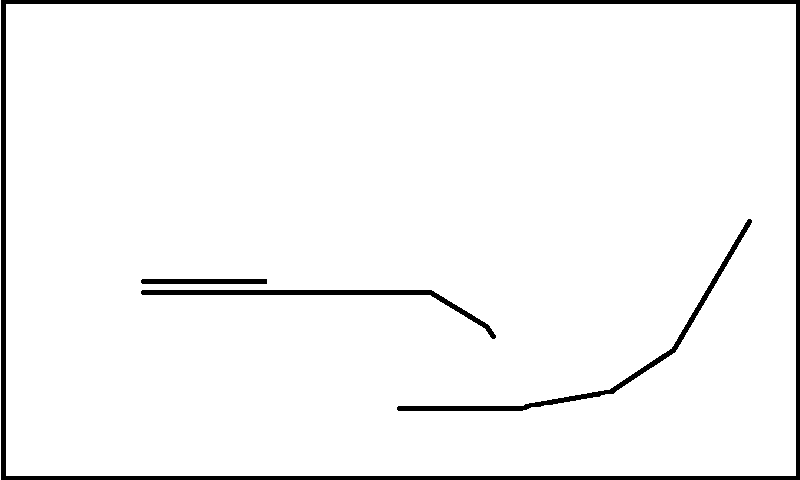
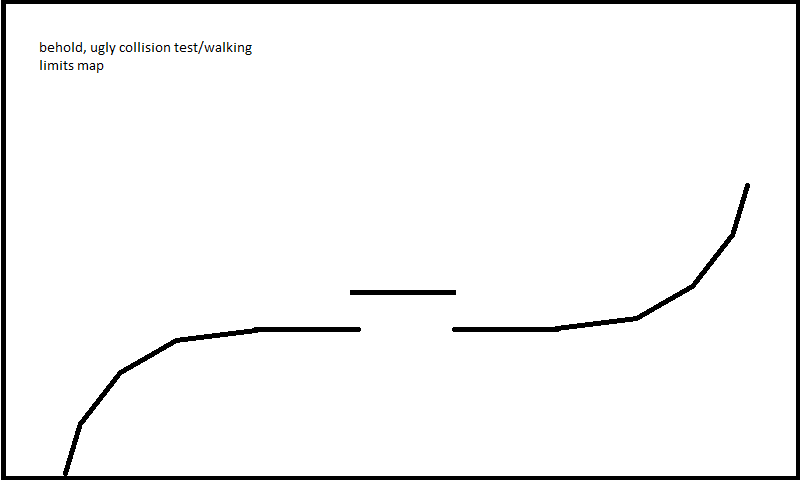
Added Pawn class, refactored players, commented stuff
Added a substantial description comment to game.js, for documentation
and as an idea board.

diff --git a/html/js/game.js b/html/js/game.js
@@ -1,28 +1,37 @@
-// class Game
-
+// WormBound
 //
-// Systems
 /*
-	@TODO document input, tick, rendering system
 
+	This first prototype of our worms clone is hotseat multiplayer (in one browser).
+	Each player, in turn, goes through their squad of pawns, issuing moves and firing.
+	
+	Game.tick is the main game loop. This checks input, updates actors, and renders
+	depending on which phase we're in (should totally have a matinee roll in announcing that)
+
+	Configuration and design notes
+	- global constants (and game tuning values eventually) are in index.html
+	
+	- var Classname   at the top of a file indicates a singleton class, a manager (Game, Map..)
+	- function Classname(param1[, param2]*)   at the top of a file indicates a class (see
+	  http://www.crockford.com/javascript/inheritance.html for the design pattern )
+	  
+	- collision is documented in the map class
 */
 
 
 var Game = new function(){
-	this.canvasBuffer;
-	this.canvasBufferContext;
-	this.players;
-	this.currentPlayerIndex; // whose turn is it?
-	this.keyDown;
-	this.testPlayer;
-	this.consts_movePixelsPerTick;
+	this.currentPlayerIndex = 0;
+	this.players = [];
+	this.keyDown = [];
+	this.buffer = {};
+	this.bufferContext = {};
 	
 	this.init = function(){
 		debug("Initializing Game");
 		
 		// Create buffer (reduce flickering)
-		this.loadCanvasBuffer();
-		if (!this.canvasBufferContext)
+		this.loadbuffer();
+		if (!this.bufferContext)
 			return;
 
 		// Bind the input handlers
@@ -51,7 +60,10 @@ var Game = new function(){
 			x: VIEWPORT_WIDTH / 2.0,
 			y: VIEWPORT_HEIGHT / 2.0
 		}
-		Game.consts_movePixelsPerTick = (function(){ return 1.0; })();
+		for (var i = 0; i < 1; ++i) {
+			Game.players.push( new Pawn( "player_"+i ) );
+			console.log(Game.players[i].getName() + " created");
+;		}
 		
 		// CPU-efficient render loop http://nokarma.org/2011/02/02/javascript-game 
 		// -development-the-game-loop/index.html (must.. wrap.. lines)
@@ -76,12 +88,12 @@ var Game = new function(){
 		onEachFrame(Game.tick);
 	};
 	
-	this.loadCanvasBuffer = function(){
+	this.loadbuffer = function(){
 		if (ctx) {
-			Game.canvasBuffer = document.createElement('canvas');
-			Game.canvasBuffer.width = VIEWPORT_WIDTH;
-			Game.canvasBuffer.height = VIEWPORT_HEIGHT;
-			Game.canvasBufferContext = Game.canvasBuffer.getContext('2d');
+			Game.buffer = document.createElement('canvas');
+			Game.buffer.width = VIEWPORT_WIDTH;
+			Game.buffer.height = VIEWPORT_HEIGHT;
+			Game.bufferContext = Game.buffer.getContext('2d');
 		}
 	};
 	
@@ -139,43 +151,31 @@ var Game = new function(){
 	};
 
 	this.draw = function(){
-		Map.buffer(Game.canvasBufferContext);
+		Map.buffer(Game.bufferContext);
 		
-		for (var i = 0; i < Game.players; ++i) {
-			// players[i].sprite.buffer(this.canvasBufferContext);
-		}
+		for (var i = 0; i < Game.players.length; ++i) {
+			Game.players[i].buffer(Game.bufferContext);
+;		}
 		
 		for (var i = 0; i < Game.projectiles; ++i) {
-			// projectiles[i].buffer(this.canvasBufferContext);
+			// projectiles[i].buffer(this.bufferContext);
 		}
-		
-		// render stand-in player
-		Game.canvasBufferContext.beginPath();
-		var x              = Game.testPlayer.x; //Math.floor();
-		var y              = Game.testPlayer.y; //Math.floor();
-		var radius         = 20;
-		var startAngle     = 0;
-		var endAngle       = 2*Math.PI;
-		var anticlockwise  = false;
-		
-		Game.canvasBufferContext.arc(x,y,radius,startAngle,endAngle, anticlockwise);
-		Game.canvasBufferContext.closePath();
-		Game.canvasBufferContext.stroke();
-		
-		ctx.drawImage(Game.canvasBuffer, 0, 0);
+		ctx.drawImage(Game.buffer, 0, 0);
 	};
 	
 	this.tick = function(){
-		//@TODO: check with the Map to see if we can move there. maybe encapsulate that
-		//       in a player class or something.
+		var deltaX = 0.0, deltaY = 0.0;
 		if (Game.input.left)
-			Game.testPlayer.x -= Game.consts_movePixelsPerTick;
+			deltaX -= 2; //Config.movePixelsPerTick();
 		if (Game.input.right)
-			Game.testPlayer.x += Game.consts_movePixelsPerTick;
+			deltaX += 2; //Config.movePixelsPerTick();
 		if (Game.input.up)
-			Game.testPlayer.y -= Game.consts_movePixelsPerTick;
+			deltaY -= 2; //Config.movePixelsPerTick();
 		if (Game.input.down)
-			Game.testPlayer.y += Game.consts_movePixelsPerTick;
+			deltaY += 2; //Config.movePixelsPerTick();
+			
+		Game.players[Game.currentPlayerIndex].tryMove(deltaX, deltaY);
+		
 
 		// Map.tick; // @TODO: for gravity with collision checks
 		

diff --git a/html/js/map.js b/html/js/map.js
@@ -1,6 +1,6 @@
-// class Map
+
+
 var Map = new function(){
-	var self = this;
 	this.collisionMap = { loaded: false, blackAtXY: function(x,y) {} };
 	
 	this.init = function(){
@@ -16,6 +16,14 @@ var Map = new function(){
 		canvas.width = VIEWPORT_WIDTH;
 		canvas.height = VIEWPORT_HEIGHT;
 		
+		/*
+				Idea for collision: if moving right, for example, scan the
+				rightmost column of the pixels of the movers "collisioncapsule"
+				image. if the pixel is black, check the pixel to its right. if
+				that pixel is also black, then we have a collision, and the move
+				should be interrupted.
+		*/
+		
 		// Load the example map (hardcoded for now)
 		var img = new Image();
 		img.onload = function(){
@@ -23,37 +31,36 @@ var Map = new function(){
 			if (loadContext)
 			{
 				loadContext.drawImage(img,0,0);
-				self.collisionMap.imageData = loadContext.getImageData(0, 0, canvas.width, canvas.height);
-				self.collisionMap.blackAtXY = function(x,y) {
+				Map.collisionMap.imageData = loadContext.getImageData(0, 0, canvas.width, canvas.height);
+				Map.collisionMap.blackAtXY = function(x,y) {
 					// #rob i'd rather find somewhere better/elsewhere to define this, but w.e. refactor later
 					// Check R
-					if ( self.collisionMap.imageData.data[((y*(imageData.width*4)) + (x*4)) + 0] > 0)
+					if ( Map.collisionMap.imageData.data[((y*(imageData.width*4)) + (x*4)) + 0] > 0.0)
 						return false;
 					
 					// Check G
-					if ( self.collisionMap.imageData.data[((y*(imageData.width*4)) + (x*4)) + 1] > 0)
+					if ( Map.collisionMap.imageData.data[((y*(imageData.width*4)) + (x*4)) + 1] > 0.0)
 						return false;
 					
 					// Check B
-					if ( self.collisionMap.imageData.data[((y*(imageData.width*4)) + (x*4)) + 2] > 0)
+					if ( Map.collisionMap.imageData.data[((y*(imageData.width*4)) + (x*4)) + 2] > 0.0)
 						return false;
 					
 					// Check A
-					//if ( self.collisionMap.imageData.data[((y*(imageData.width*4)) + (x*4)) + 3] > 0)
-					//	return whatever;
+					if ( Map.collisionMap.imageData.data[((y*(imageData.width*4)) + (x*4)) + 3] < 1.0)
+						return false;
 					
 					return true;
 				};
-				self.collisionMap.loaded = true;
+				Map.collisionMap.loaded = true;
 			}
 		};
-		img.src = 'assets/maptest.png';
-		// Note for the above line to succeed, you must be running a local server
+		img.src = 'assets/maptest.png'; // Note this will throw a CORS error without a server
 	};
 	
-	this.buffer = function(canvasBufferContext){
+	this.buffer = function(bufferContext){
 		// For now, just print the collision map. this will be a useful debugging tool later too
-		if (this.collisionMap.loaded)
-			canvasBufferContext.putImageData( self.collisionMap.imageData, 0, 0);
+		if (Map.collisionMap.loaded)
+			bufferContext.putImageData( Map.collisionMap.imageData, 0, 0);
 	}
 }

diff --git a/html/js/pawn.js b/html/js/pawn.js
@@ -1,0 +1,51 @@
+
+
+function Pawn(name) {
+    this.setName(name);
+	this.x = VIEWPORT_WIDTH / 2.0;
+	this.y = VIEWPORT_HEIGHT / 2.0;
+	// this.collisionCapsuleImage; // this will have a black outline of
+	// the colliding outline of the sprite, for collision checks with the
+	// map
+}
+
+Pawn.method('setName', function(name){
+    this.name = name;
+    return this;
+});
+
+Pawn.method('getName', function(){
+    return this.name;
+});
+
+Pawn.method('whatsMyName', function(){
+    return 'Champion bad-ass, ' + this.getName();
+});
+
+Pawn.method('tryMove', function(deltaX, deltaY){
+    // @todo: check for collision with the map
+	this.x += deltaX;
+	this.y += deltaY;
+});
+
+Pawn.method('buffer', function(bufferContext){
+	bufferContext.beginPath();
+	var x              = Game.testPlayer.x; //Math.floor();
+	var y              = Game.testPlayer.y; //Math.floor();
+	var radius         = 20;
+	var startAngle     = 0;
+	var endAngle       = 2*Math.PI;
+	var anticlockwise  = false;
+	
+	bufferContext.arc(this.x,this.y,radius,startAngle,endAngle, anticlockwise);
+	bufferContext.closePath();
+	bufferContext.stroke();
+});
+
+function Config(shit) {
+    this._movePixelsPerTick = 1.0;
+}
+
+Config.method('movePixelsPerTick', function () {
+    return this._movePixelsPerTick;
+});

diff --git a/html/js/inheritance.js b/html/js/inheritance.js
@@ -1,0 +1,43 @@
+// http://www.crockford.com/javascript/inheritance.html
+Function.prototype.method = function (name, func) {
+    this.prototype[name] = func;
+    return this;
+};
+
+Function.method('inherits', function (parent) {
+    this.prototype = new parent();
+    var d = {}, 
+        p = this.prototype;
+    this.prototype.constructor = parent; 
+    this.method('uber', function uber(name) {
+        if (!(name in d)) {
+            d[name] = 0;
+        }        
+        var f, r, t = d[name], v = parent.prototype;
+        if (t) {
+            while (t) {
+                v = v.constructor.prototype;
+                t -= 1;
+            }
+            f = v[name];
+        } else {
+            f = p[name];
+            if (f == this[name]) {
+                f = v[name];
+            }
+        }
+        d[name] += 1;
+        r = f.apply(this, Array.prototype.slice.apply(arguments, [1]));
+        d[name] -= 1;
+        return r;
+    });
+    return this;
+});
+
+Function.method('swiss', function (parent) {
+    for (var i = 1; i < arguments.length; i += 1) {
+        var name = arguments[i];
+        this.prototype[name] = parent.prototype[name];
+    }
+    return this;
+});

diff --git a/html/js/lib/inheritance.js b/html/js/lib/inheritance.js
@@ -1,0 +1,43 @@
+// http://www.crockford.com/javascript/inheritance.html
+Function.prototype.method = function (name, func) {
+    this.prototype[name] = func;
+    return this;
+};
+
+Function.method('inherits', function (parent) {
+    this.prototype = new parent();
+    var d = {}, 
+        p = this.prototype;
+    this.prototype.constructor = parent; 
+    this.method('uber', function uber(name) {
+        if (!(name in d)) {
+            d[name] = 0;
+        }        
+        var f, r, t = d[name], v = parent.prototype;
+        if (t) {
+            while (t) {
+                v = v.constructor.prototype;
+                t -= 1;
+            }
+            f = v[name];
+        } else {
+            f = p[name];
+            if (f == this[name]) {
+                f = v[name];
+            }
+        }
+        d[name] += 1;
+        r = f.apply(this, Array.prototype.slice.apply(arguments, [1]));
+        d[name] -= 1;
+        return r;
+    });
+    return this;
+});
+
+Function.method('swiss', function (parent) {
+    for (var i = 1; i < arguments.length; i += 1) {
+        var name = arguments[i];
+        this.prototype[name] = parent.prototype[name];
+    }
+    return this;
+});

diff --git a/html/js/app.js b/html/js/app.js
@@ -1,6 +1,16 @@
 var include = function(path){ document.write('<script type="text/javascript" src="'+path+'"></script>'); };
 
+/* Libraries */
 include(USE_LOCAL_LIBS ? "js/lib/jquery.min.js" : "http://ajax.googleapis.com/ajax/libs/jquery/1.8.2/jquery.min.js");
+include("js/lib/inheritance.js");
+
+/* Configuration */
+include("js/config.js");
+
+/* Classes */
+include("js/pawn.js");
+
+/* Singletons */
 include("js/game.js");
 include("js/map.js");
 
@@ -66,7 +76,6 @@ addListener(document, "DOMContentLoaded", function() {
 	setup();
 	init();
 });
-
 
 
     

diff --git a/html/js/config.js b/html/js/config.js
@@ -1,0 +1,10 @@
+
+/* why the fuck doesnt this work like pawn does..?
+function Config(shit) {
+    this._movePixelsPerTick = 1.0;
+}
+
+Config.method('movePixelsPerTick', function () {
+    return this._movePixelsPerTick;
+});
+*/

diff --git a/html/index.html b/html/index.html
@@ -13,6 +13,7 @@
 			VIEWPORT_HEIGHT = 480;
 			DEBUG = true;
 			USE_LOCAL_LIBS = true;
+			
 		</script>
 		
 		<!-- JS engine entry point -->
